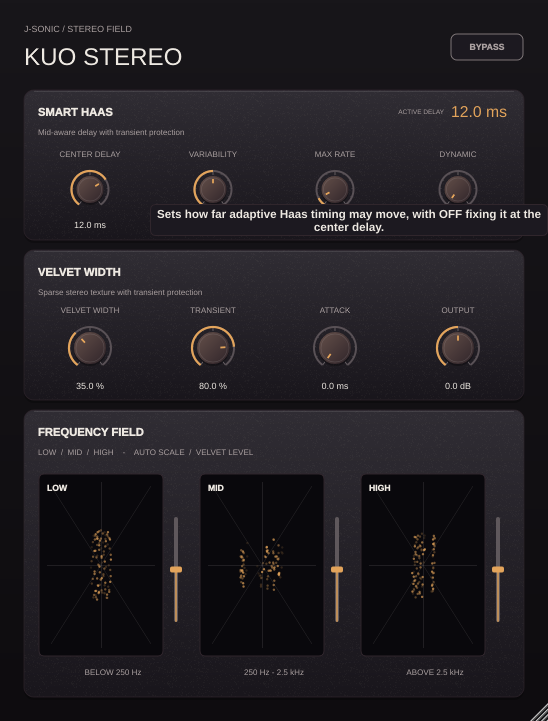
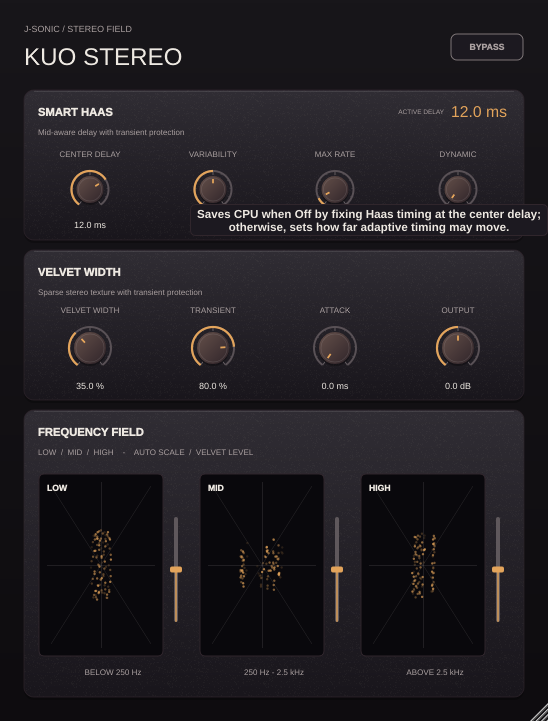
Explain CPU savings in transformer and variability hints

Changed region(s): [[0.2792, 0.2746, 0.9927, 0.3356]]

diff --git a/projects/CharacterCompressor/Tests/ProcessorTests.cpp b/projects/CharacterCompressor/Tests/ProcessorTests.cpp
@@ -406,11 +406,11 @@ int runTests (int argc, char** argv)
             juce::TooltipWindow* tooltip = nullptr;
             for (auto* child : editor->getChildren())
                 if (auto* window = dynamic_cast<juce::TooltipWindow*> (child)) tooltip = window;
-            check (tooltip != nullptr && threshold != nullptr, "YinYang tooltip preview has its components");
-            if (tooltip != nullptr && threshold != nullptr)
+            check (tooltip != nullptr && transformer != nullptr, "YinYang tooltip preview has its components");
+            if (tooltip != nullptr && transformer != nullptr)
             {
-                const auto point = editor->getLocalArea (threshold, threshold->getLocalBounds()).getCentre();
-                tooltip->displayTip (editor->localPointToGlobal (point), threshold->getTooltip());
+                const auto point = editor->getLocalArea (transformer, transformer->getLocalBounds()).getCentre();
+                tooltip->displayTip (editor->localPointToGlobal (point), transformer->getTooltip());
                 check (tooltip->isVisible(), "YinYang tooltip is visible in the preview");
             }
         }

diff --git a/projects/CharacterCompressor/Source/PluginEditor.cpp b/projects/CharacterCompressor/Source/PluginEditor.cpp
@@ -22,7 +22,7 @@ CharacterCompressorEditor::CharacterCompressorEditor (CharacterCompressorProcess
     bypassAttachment = std::make_unique<State::ButtonAttachment> (p.parameters, "bypass", bypass);
     upwardAttachment = std::make_unique<State::ButtonAttachment> (p.parameters, "upward", upward);
     midSideAttachment = std::make_unique<State::ButtonAttachment> (p.parameters, "midSide", midSide);
-    transformer.setTooltip ("Adds oversampled transformer coloration to the output.");
+    transformer.setTooltip ("Saves CPU when Off; adds transformer color when On.");
     bypass.setTooltip ("Bypasses compression and coloration for a direct comparison.");
     upward.setTooltip ("Switches between Yang compression above threshold and Yin boosting below threshold.");
     midSide.setTooltip ("Processes stereo as mid and side before decoding it back to left and right.");

diff --git a/projects/KuoStereo/Source/PluginEditor.cpp b/projects/KuoStereo/Source/PluginEditor.cpp
@@ -153,7 +153,7 @@ KuoStereoEditor::KuoStereoEditor (KuoStereoProcessor& p)
     constexpr std::array<const char*, 8> units { " ms", " ms", " ms/s", " %", " %", " %", " ms", " dB" };
     constexpr std::array<const char*, 8> hints {
         "Sets the center Haas delay, with positive values delaying right and negative values delaying left.",
-        "Sets how far adaptive Haas timing may move, with OFF fixing it at the center delay.",
+        "Saves CPU when Off by fixing Haas timing at the center delay; otherwise, sets how far adaptive timing may move.",
         "Limits how quickly the active Haas delay changes to avoid chorus-like movement.",
         "Shortens Haas delay during detected transients to keep attacks tight.",
         "Sets the amount of stereo side signal added by Velvet convolution.",

diff --git a/projects/CharacterCompressor/TOOLTIPS.md b/projects/CharacterCompressor/TOOLTIPS.md
@@ -1,11 +1,11 @@
 # YinYang Compressor hover hints
 
-![YinYang Compressor with the Threshold hint visible](Previews/yinyang-tooltip.png)
+![YinYang Compressor with the Output transformer hint visible](Previews/yinyang-tooltip.png)
 
 | Control | Hover hint |
 | --- | --- |
 | Compressor model | Selects the compressor model used for detection and gain reduction. |
-| Output transformer | Adds oversampled transformer coloration to the output. |
+| Output transformer | Saves CPU when Off; adds transformer color when On. |
 | Bypass | Bypasses compression and coloration for a direct comparison. |
 | Yin/Yang mode | Switches between Yang compression above threshold and Yin boosting below threshold. |
 | Mid/Side mode | Processes stereo as mid and side before decoding it back to left and right. |

diff --git a/projects/KuoStereo/TOOLTIPS.md b/projects/KuoStereo/TOOLTIPS.md
@@ -6,7 +6,7 @@
 | --- | --- |
 | Bypass | Bypasses the stereo widening for a direct comparison. |
 | Center Delay | Sets the center Haas delay, with positive values delaying right and negative values delaying left. |
-| Variability | Sets how far adaptive Haas timing may move, with OFF fixing it at the center delay. |
+| Variability | Saves CPU when Off by fixing Haas timing at the center delay; otherwise, sets how far adaptive timing may move. |
 | Max Rate | Limits how quickly the active Haas delay changes to avoid chorus-like movement. |
 | Dynamic | Shortens Haas delay during detected transients to keep attacks tight. |
 | Velvet Width | Sets the amount of stereo side signal added by Velvet convolution. |
